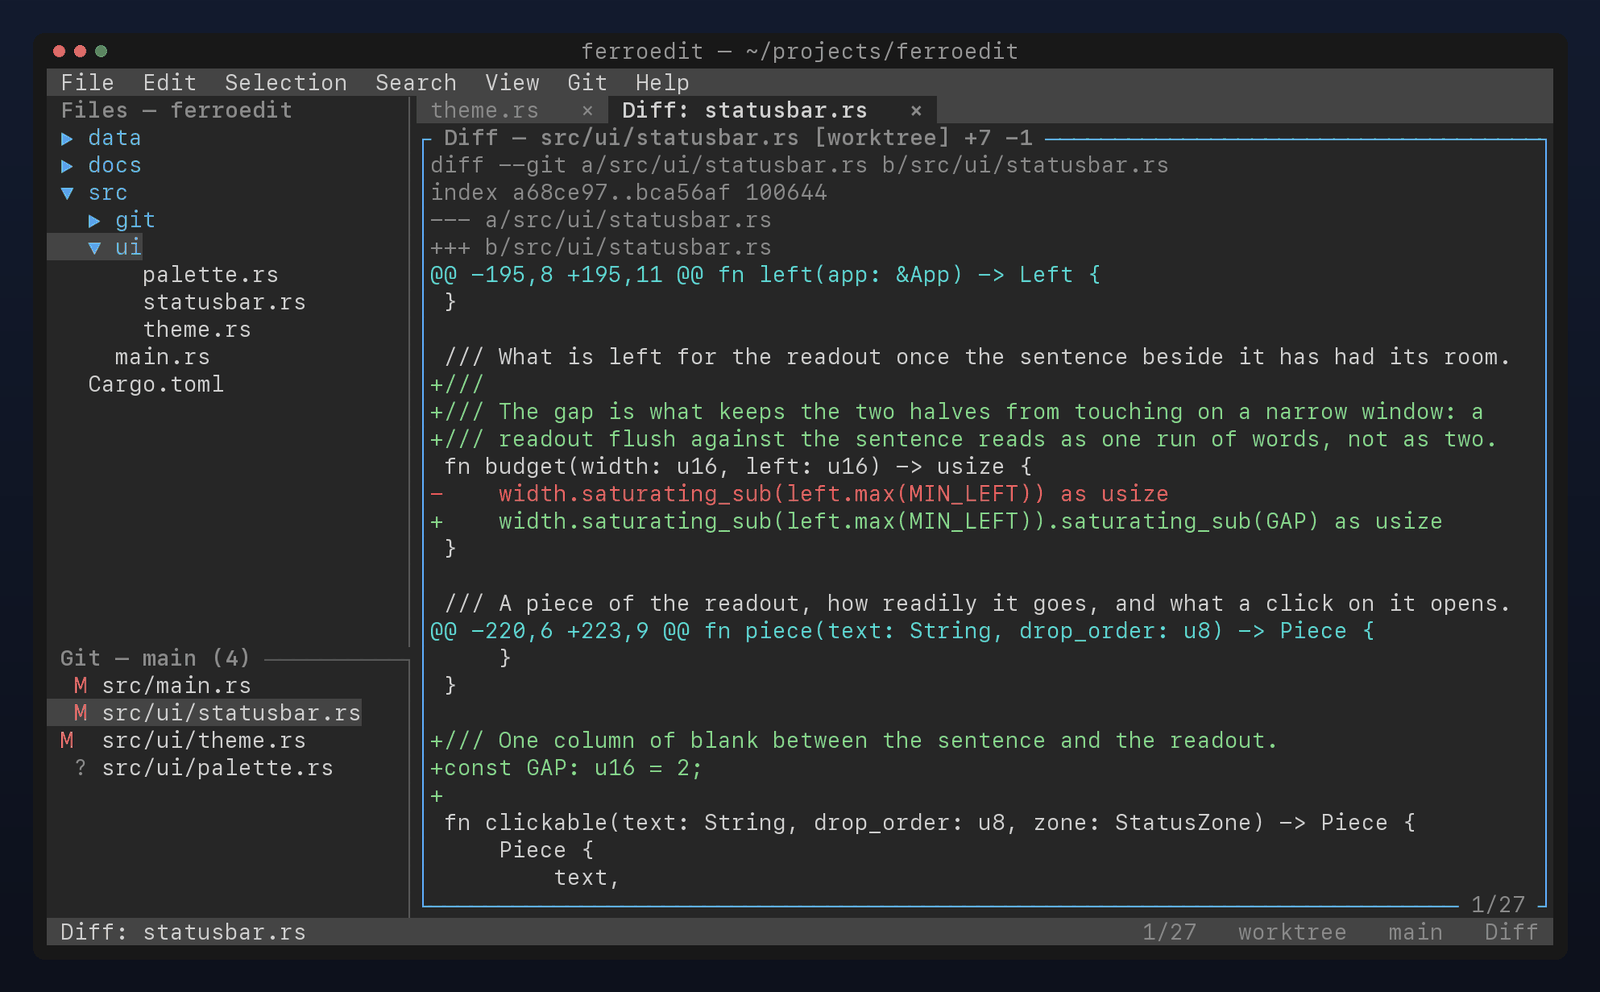
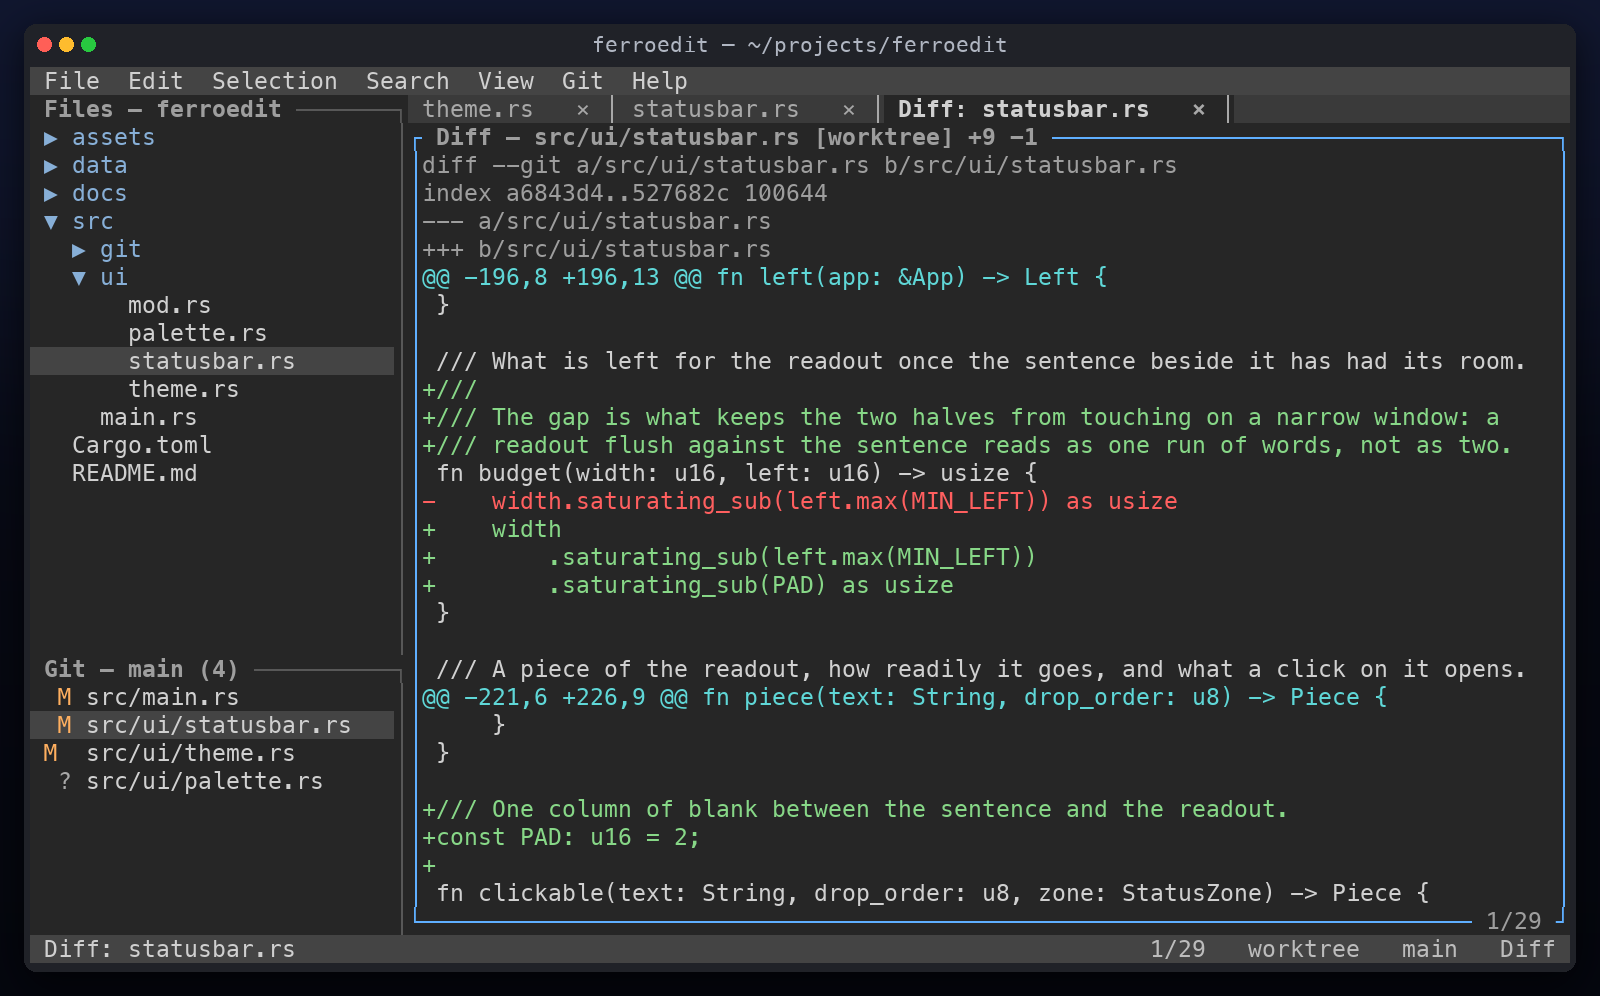
docs(readme): retake every screenshot against 0.1.10
The pictures were captures of 0.1.7 and 0.1.8, and the chrome has moved since:
the View menu is shorter and hands the themes to a picker, the tab in front
takes the editor's own ground, the panel titles and rules are lighter, the log
viewer's legend says `c wide`, and the image viewer's metadata column is laid
out in three sections. The hero still named `ThemeKind::Borland`, which has
been `Retro` for two releases.

Each one is a capture of the release binary in a 110x32 pty, as before.

Changed region(s): [[0.0, 0.0312, 1.0, 0.9688], [0.9688, 0.0625, 1.0, 0.125], [0.8438, 0.5, 0.9062, 0.5312]]

diff --git a/CHANGELOG.md b/CHANGELOG.md
@@ -10,6 +10,13 @@ version, so that heading becomes the new version's on the way out (see
 
 ## [Unreleased]
 
+### Changed
+
+- **The README's screenshots are captures of 0.1.10.** Every image was retaken against
+  the current chrome — the shorter View menu with its theme picker, the tab strip on the
+  editor's own ground, the panes that keep their width — so the pictures no longer show
+  a menu and a palette that were renamed two releases ago.
+
 ## [0.1.10] — 2026-09-11
 
 ### Added
